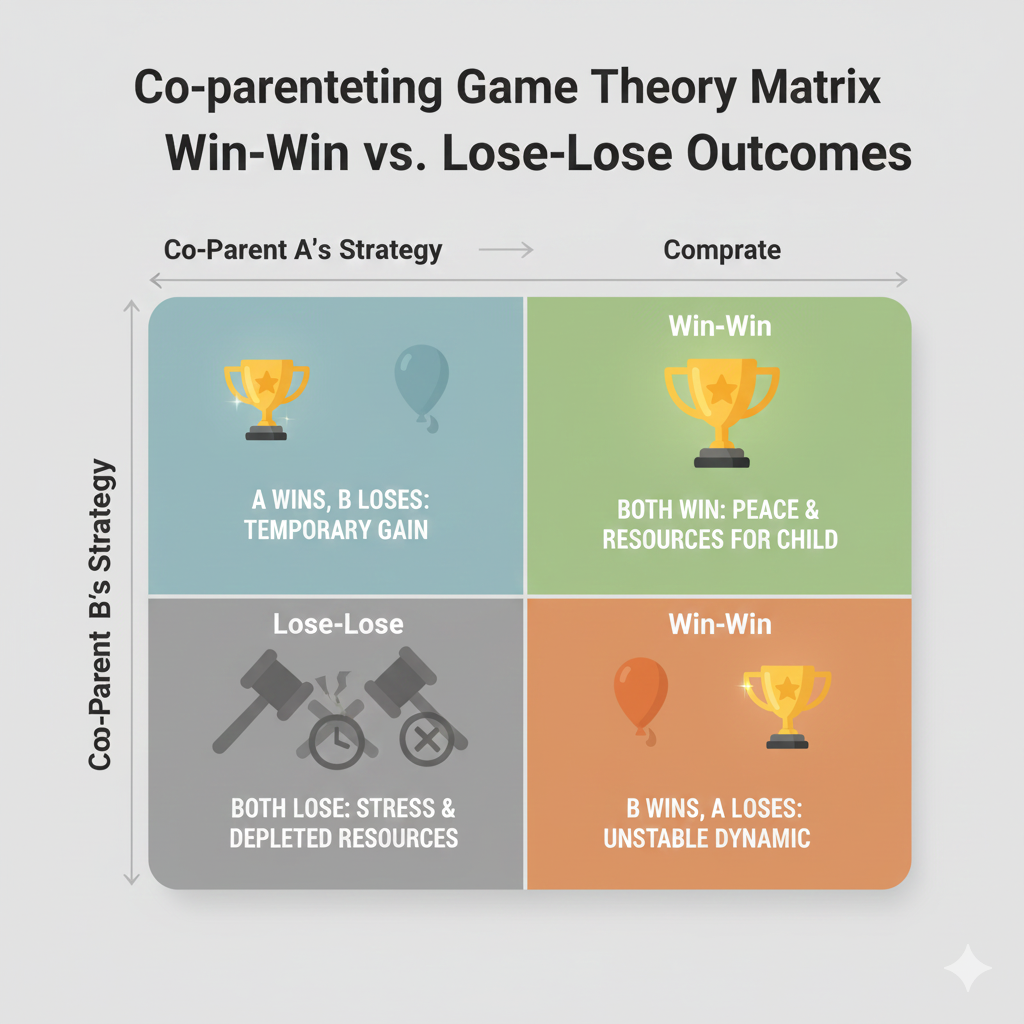
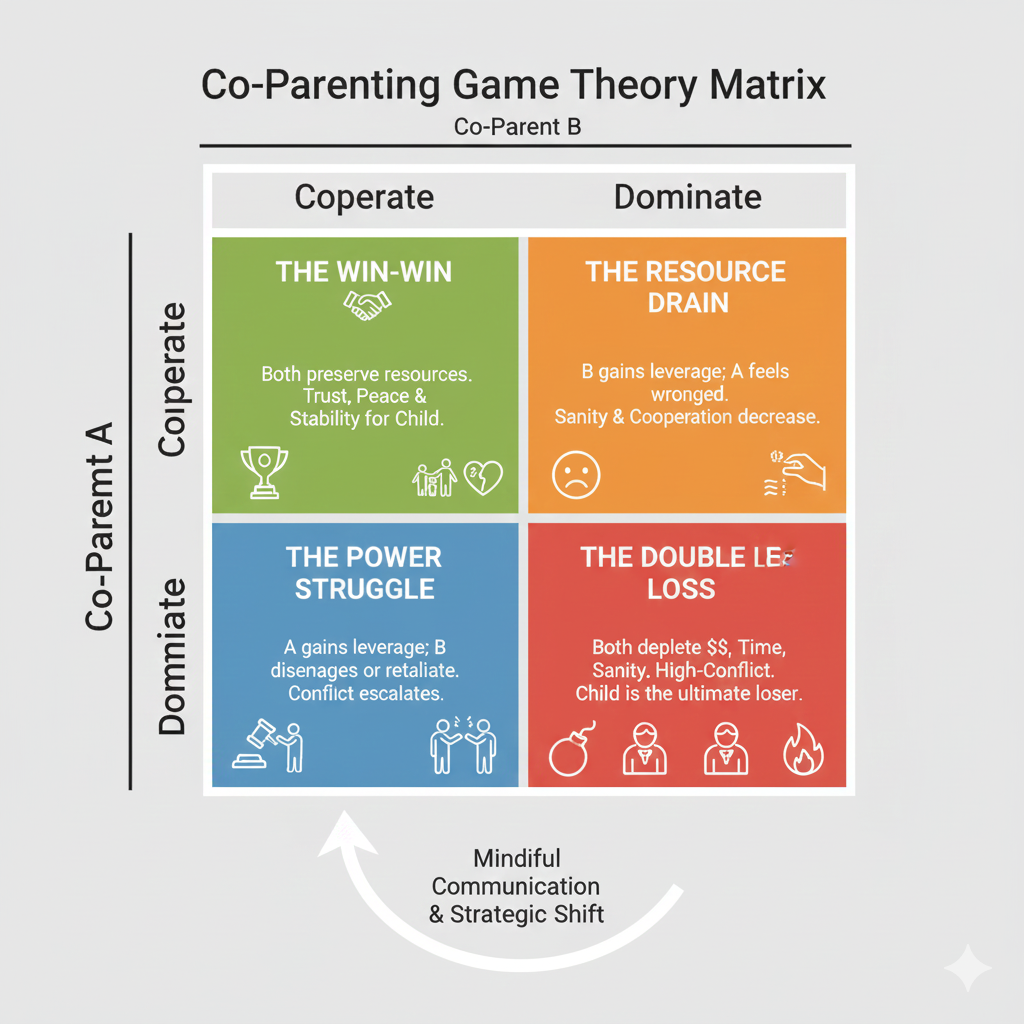
refactor: Replace Game Theory Matrix image and remove redundant content
- New cleaner Game Theory Matrix infographic
- Removed redundant "Four Situations" styled div (now shown in image)
- Updated alt text and caption

🤖 Generated with [Claude Code](https://claude.com/claude-code)

diff --git a/chat-client-vite/src/components/blog/WhyArgumentsRepeat.jsx b/chat-client-vite/src/components/blog/WhyArgumentsRepeat.jsx
@@ -40,30 +40,8 @@ export function WhyArgumentsRepeat() {
                 In classical Game Theory, the Prisoner's Dilemma provides a framework for understanding co-parenting dynamics. Many parents operate under the illusion of a <strong>"Zero-Sum Game,"</strong> where one parent's gain (e.g., an extra holiday) is perceived as the other's absolute loss.
             </p>
 
-            <div className="bg-gradient-to-br from-gray-50 to-white border border-gray-200 rounded-xl p-6 my-8">
-                <h4 className="font-bold text-gray-900 mb-4">The Four Situations of Co-Parenting Game Theory:</h4>
-                <div className="grid sm:grid-cols-2 gap-4">
-                    <div className="bg-red-50 border border-red-200 rounded-lg p-4">
-                        <span className="text-red-700 font-semibold">Situation 1:</span>
-                        <p className="text-sm text-gray-700 mt-1">Parent A "wins" at Parent B's expense</p>
-                    </div>
-                    <div className="bg-red-50 border border-red-200 rounded-lg p-4">
-                        <span className="text-red-700 font-semibold">Situation 2:</span>
-                        <p className="text-sm text-gray-700 mt-1">Parent B "wins" at Parent A's expense</p>
-                    </div>
-                    <div className="bg-orange-50 border border-orange-200 rounded-lg p-4">
-                        <span className="text-orange-700 font-semibold">Situation 3:</span>
-                        <p className="text-sm text-gray-700 mt-1">Nash Equilibrium of Total Loss—both depleted</p>
-                    </div>
-                    <div className="bg-teal-50 border border-teal-200 rounded-lg p-4">
-                        <span className="text-teal-700 font-semibold">Situation 4:</span>
-                        <p className="text-sm text-gray-700 mt-1">Win-Win—the only sustainable outcome</p>
-                    </div>
-                </div>
-            </div>
-
             <p>
-                According to game theory research, when two parties in a long-term relationship (like co-parents) prioritize individual "wins" (Situations 1 and 2), they inevitably reach <strong>Situation 3: The Nash Equilibrium of Total Loss</strong>. In this state, both parties have depleted their legal funds, emotional resilience, and co-parenting efficacy.
+                According to game theory research, when two parties in a long-term relationship (like co-parents) prioritize individual "wins," they inevitably reach a <strong>Double Loss</strong>. In this state, both parties have depleted their legal funds, emotional resilience, and co-parenting efficacy—and the child is the ultimate loser.
             </p>
 
             <div className="bg-white border-l-4 border-teal-500 shadow-sm p-6 my-8 rounded-r-lg">
@@ -76,10 +54,10 @@ export function WhyArgumentsRepeat() {
             <div className="my-10">
                 <img
                     src={gameTheoryMatrix}
-                    alt="Co-parenting Game Theory Matrix showing Win-Win vs Lose-Lose outcomes: When both parents cooperate, both win with peace and resources for child. When one competes while other cooperates, temporary gain but unstable dynamic. When both compete, both lose with stress and depleted resources."
+                    alt="Co-Parenting Game Theory Matrix: Win-Win (both cooperate - peace and stability for child), Resource Drain (one cooperates, one dominates), Power Struggle (one dominates, one cooperates), Double Loss (both dominate - child is ultimate loser)"
                     className="w-full rounded-xl shadow-lg"
                 />
-                <p className="text-center text-sm text-gray-500 mt-3 italic">The Co-Parenting Game Theory Matrix: Only mutual cooperation leads to sustainable outcomes</p>
+                <p className="text-center text-sm text-gray-500 mt-3 italic">The Co-Parenting Game Theory Matrix: A mindful communication and strategic shift leads to Win-Win</p>
             </div>
 
             <hr className="my-12 border-gray-100" />
